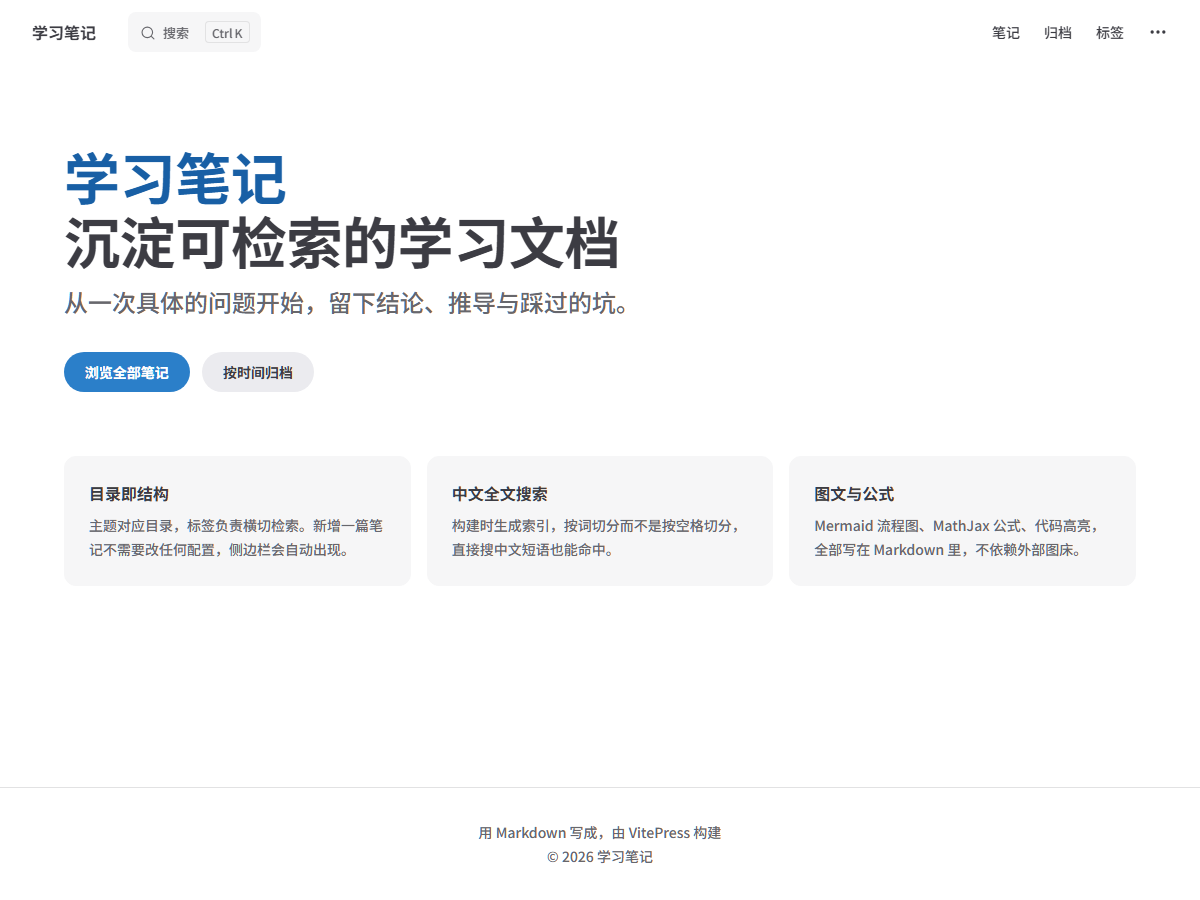
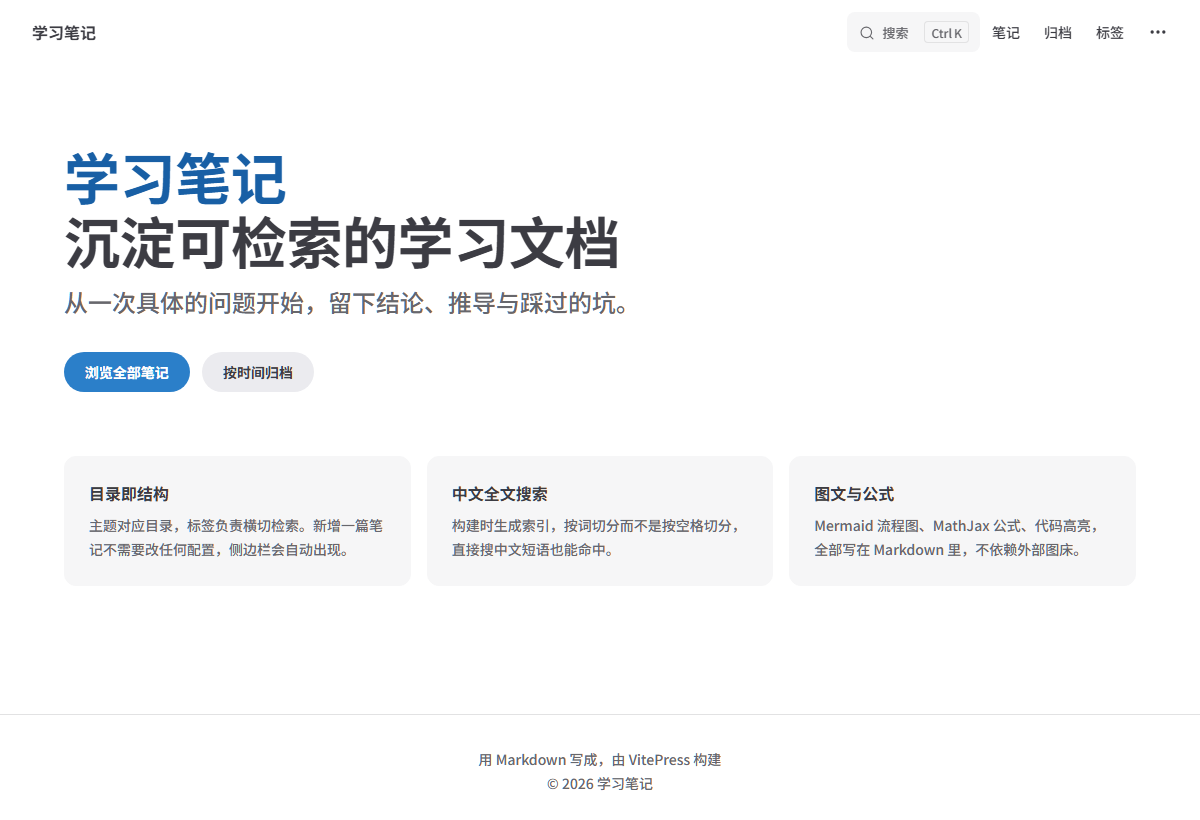
feat(theme): 页头通栏固定，侧边栏从页头下方滑出
- 导航在所有屏幕尺寸下 position: fixed，不再随页面滚走
- 侧边栏 z-index 让位，抽屉与遮罩都从 --vp-nav-height 开始，不遮挡页头
- 内容区补齐顶部间距，本地目录条贴住页头下沿
- 搜索框在桌面端靠右，长标题按行均衡断行

diff --git a/docs/.vitepress/theme/custom.css b/docs/.vitepress/theme/custom.css
@@ -4,6 +4,9 @@
   --vp-c-brand-3: #2b7fc9;
   --vp-c-brand-soft: rgba(24, 95, 165, 0.14);
 
+  /* 侧边栏与内容区同底色，靠分隔线区分，更接近文档站常见形态 */
+  --vp-sidebar-bg-color: var(--vp-c-bg);
+
   --vp-font-family-base:
     'Noto Sans SC', 'PingFang SC', 'Microsoft YaHei', ui-sans-serif, system-ui, sans-serif;
   --vp-font-family-mono:
@@ -13,6 +16,60 @@
 /* 中文长标题在侧边栏里换行更自然 */
 .VPSidebarItem .text {
   line-height: 1.55;
+}
+
+/* ------------------------------------------------------------------
+   页头与侧边栏
+
+   默认主题在两个地方不符合「页头通栏固定」：
+   1. .VPNav 只在 ≥960px 时 position: fixed，移动端会随页面滚走；
+   2. .VPSidebar 的 z-index(60) 高于 .VPNav(30)，抽屉打开时会把页头盖住。
+
+   注意：这些组件自带 scoped 样式（.VPNav[data-v-xxx]），单类选择器权重不够，
+   必须用 #app 前缀才能覆盖。
+   ------------------------------------------------------------------ */
+
+#app .VPNav {
+  position: fixed;
+  top: var(--vp-layout-top-height, 0px);
+  left: 0;
+  width: 100%;
+  z-index: calc(var(--vp-z-index-sidebar) + 10);
+}
+
+/* 导航脱离文档流后，内容区补上等高间距（桌面端原本就有，这里补齐移动端） */
+#app .VPContent {
+  padding-top: var(--vp-nav-height);
+}
+
+/* 抽屉从页头下方开始，首项不会被压住；桌面端原本就是同样的值 */
+#app .VPSidebar {
+  padding-top: var(--vp-nav-height);
+  border-right: 1px solid var(--vp-c-divider);
+}
+
+/* 移动端的「本页目录」条贴在页头下沿，而不是钻进页头里 */
+#app .VPLocalNav {
+  top: var(--vp-nav-height);
+}
+
+/* 遮罩不从页头开始，页头保持原样不被压暗 */
+#app .VPBackdrop {
+  top: var(--vp-nav-height);
+}
+
+/* 搜索框靠右，与参考布局一致；默认主题会把它挤在标题右侧。
+   只在桌面端生效，移动端要把位置留给汉堡按钮。 */
+@media (min-width: 960px) {
+  #app .VPNavBarSearch {
+    justify-content: flex-end;
+  }
+}
+
+/* 长中文标题按行均衡断行，避免最后一个字单独成行 */
+.note-title,
+.vp-doc h1 {
+  text-wrap: balance;
 }
 
 /* 代码块圆角，浅色主题下也有一点边界感 */
